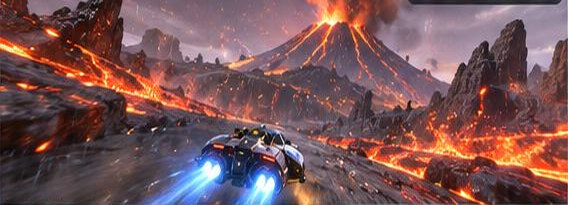
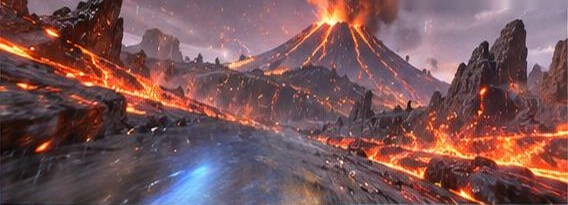
fix(assets): sync vehicle-free teaser scenes and rules from develop

Changed region(s): [[0.2694, 0.5561, 0.5687, 1.0], [0.7183, 0.0, 1.0, 0.0293]]

diff --git a/CLAUDE.md b/CLAUDE.md
@@ -78,7 +78,6 @@ Applies to `public/track-teasers/<track-slug>.jpg` in the home/Coming Soon/track
 
 - Final committed asset **must decode as an actual 568 × 205 pixel JPEG** (not merely display at that CSS size); use a consistent high-quality cinematic futuristic racing illustration style. The 3× rule for transparent UI icons does not replace this exact JPEG contract.
 - **Scene only:** never burn in track names, headings, descriptions, buttons, labels, logos, watermarks, captions, or any other text. UI copy belongs in HTML/Vue, not inside the image.
-- **Edge-to-edge scene:** no white/blank borders, padding, letterbox bars, empty canvas corners, or fragments of adjacent maps. Inspect the top/bottom rows and all four edges for seams, other map strips and unwanted overlays. Keep the intended vehicle, road and landmark visibly framed; do not crop off significant content to hide a defect.
-- For the five-track 2026-11-05 correction, **preserve the original artwork, viewpoint, colors and subject** for Monsoon Ruins, Skyfall Archipelago, Stormline Megacity and Volcanic Crown; repair only text, seams and unwanted lower strips with source-faithful reconstruction. **Only Frostbite Canyon is authorized for a full redraw** to match those maps' original cinematic illustration style.
+- **Edge-to-edge scene:** no white/blank borders, padding, letterbox bars, empty canvas corners, or fragments of adjacent maps. Inspect the top/bottom rows and all four edges for seams, other map strips and unwanted overlays. Do not include vehicles, cars, wheels, boost flames or nitro trails in these static teaser JPEGs; keep the original road, terrain, structures and landmarks intact and uncropped.
+- For the five-track 2026-11-06 update: **Monsoon Ruins** must use the approved no-portrait, tropical rainforest/waterfalls/stone-bridge scene. For **Skyfall Archipelago, Stormline Megacity, Volcanic Crown and Frostbite Canyon**, remove only cars and their exhaust/trails from the existing GitHub teaser originals, using tightly-scoped inpainting; preserve all unmasked original scene pixels, viewpoint, colors, road and landmarks as closely as possible. Do not replace these four images with newly invented full-scene compositions. Fix any incidental black top-right seam on Volcanic Crown only if demonstrably an artifact.
 - Before committing, inspect each decoded JPEG at native 568 × 205 and compare against the source side by side; verify image format and dimensions with an executable check, ensure the image is readable in the real desktop/mobile track-selection UI and check that no unrelated source files changed. CI/test results and manual visual acceptance must be reported separately, never assumed.
-
